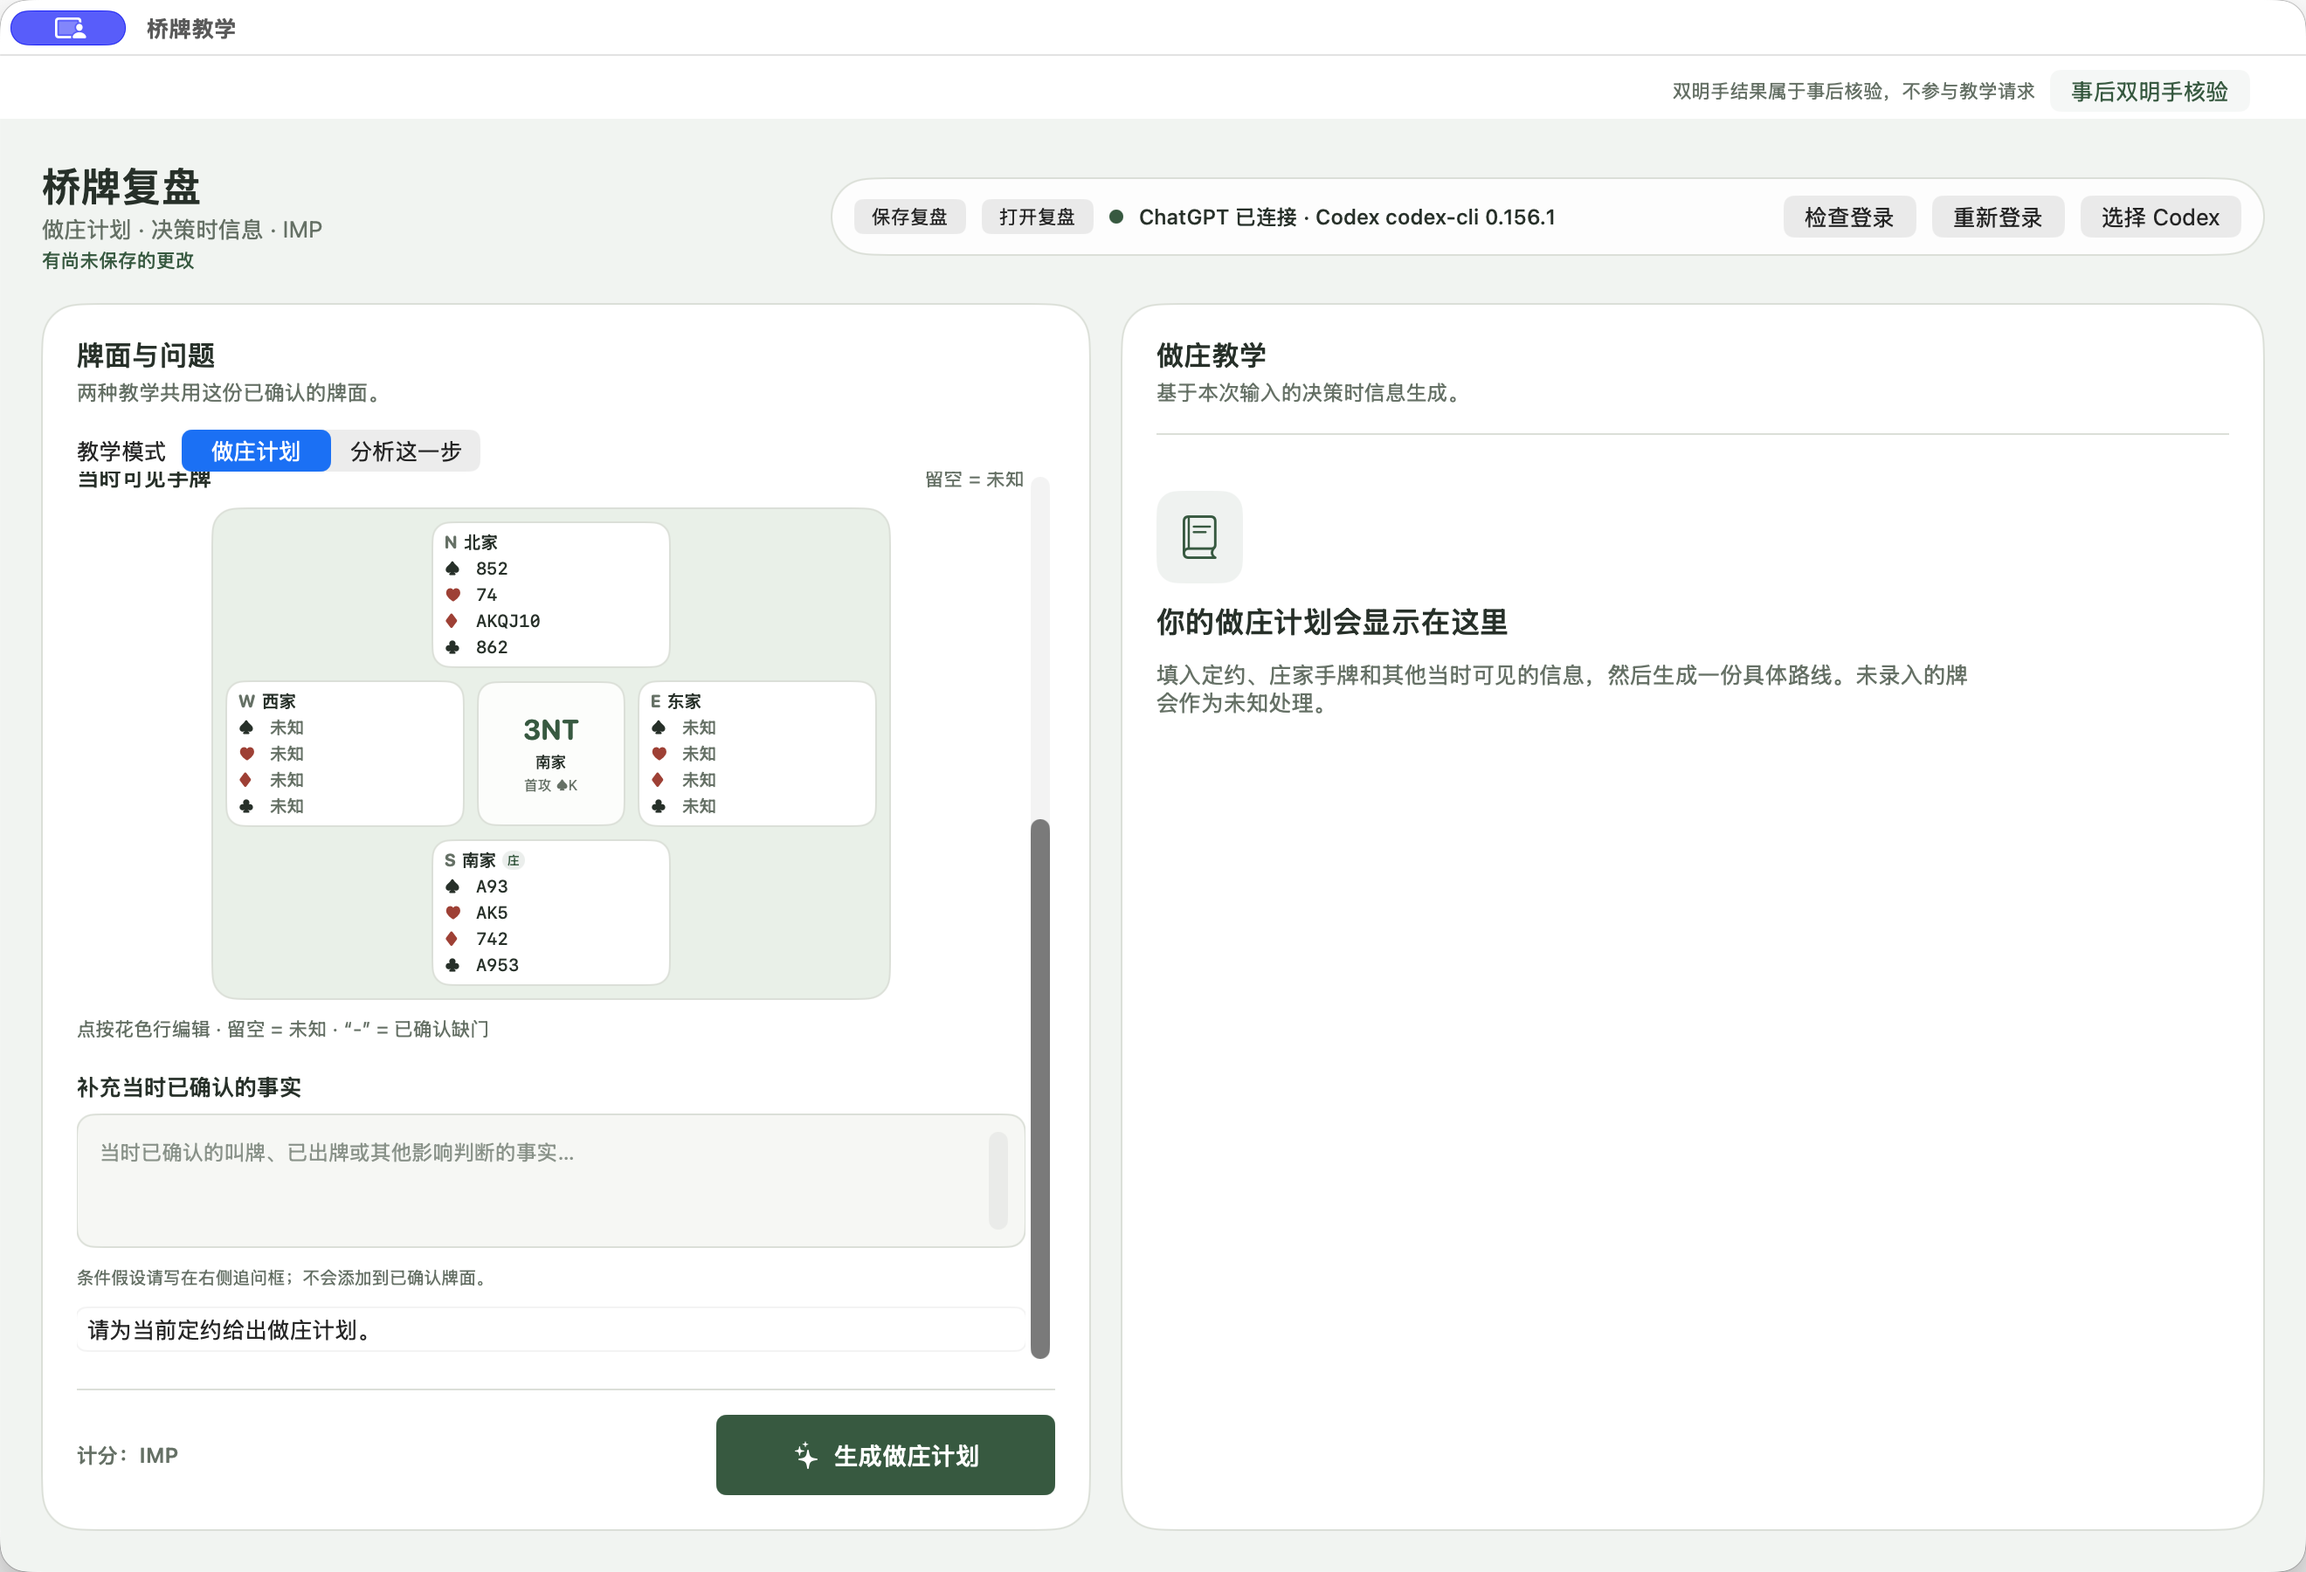
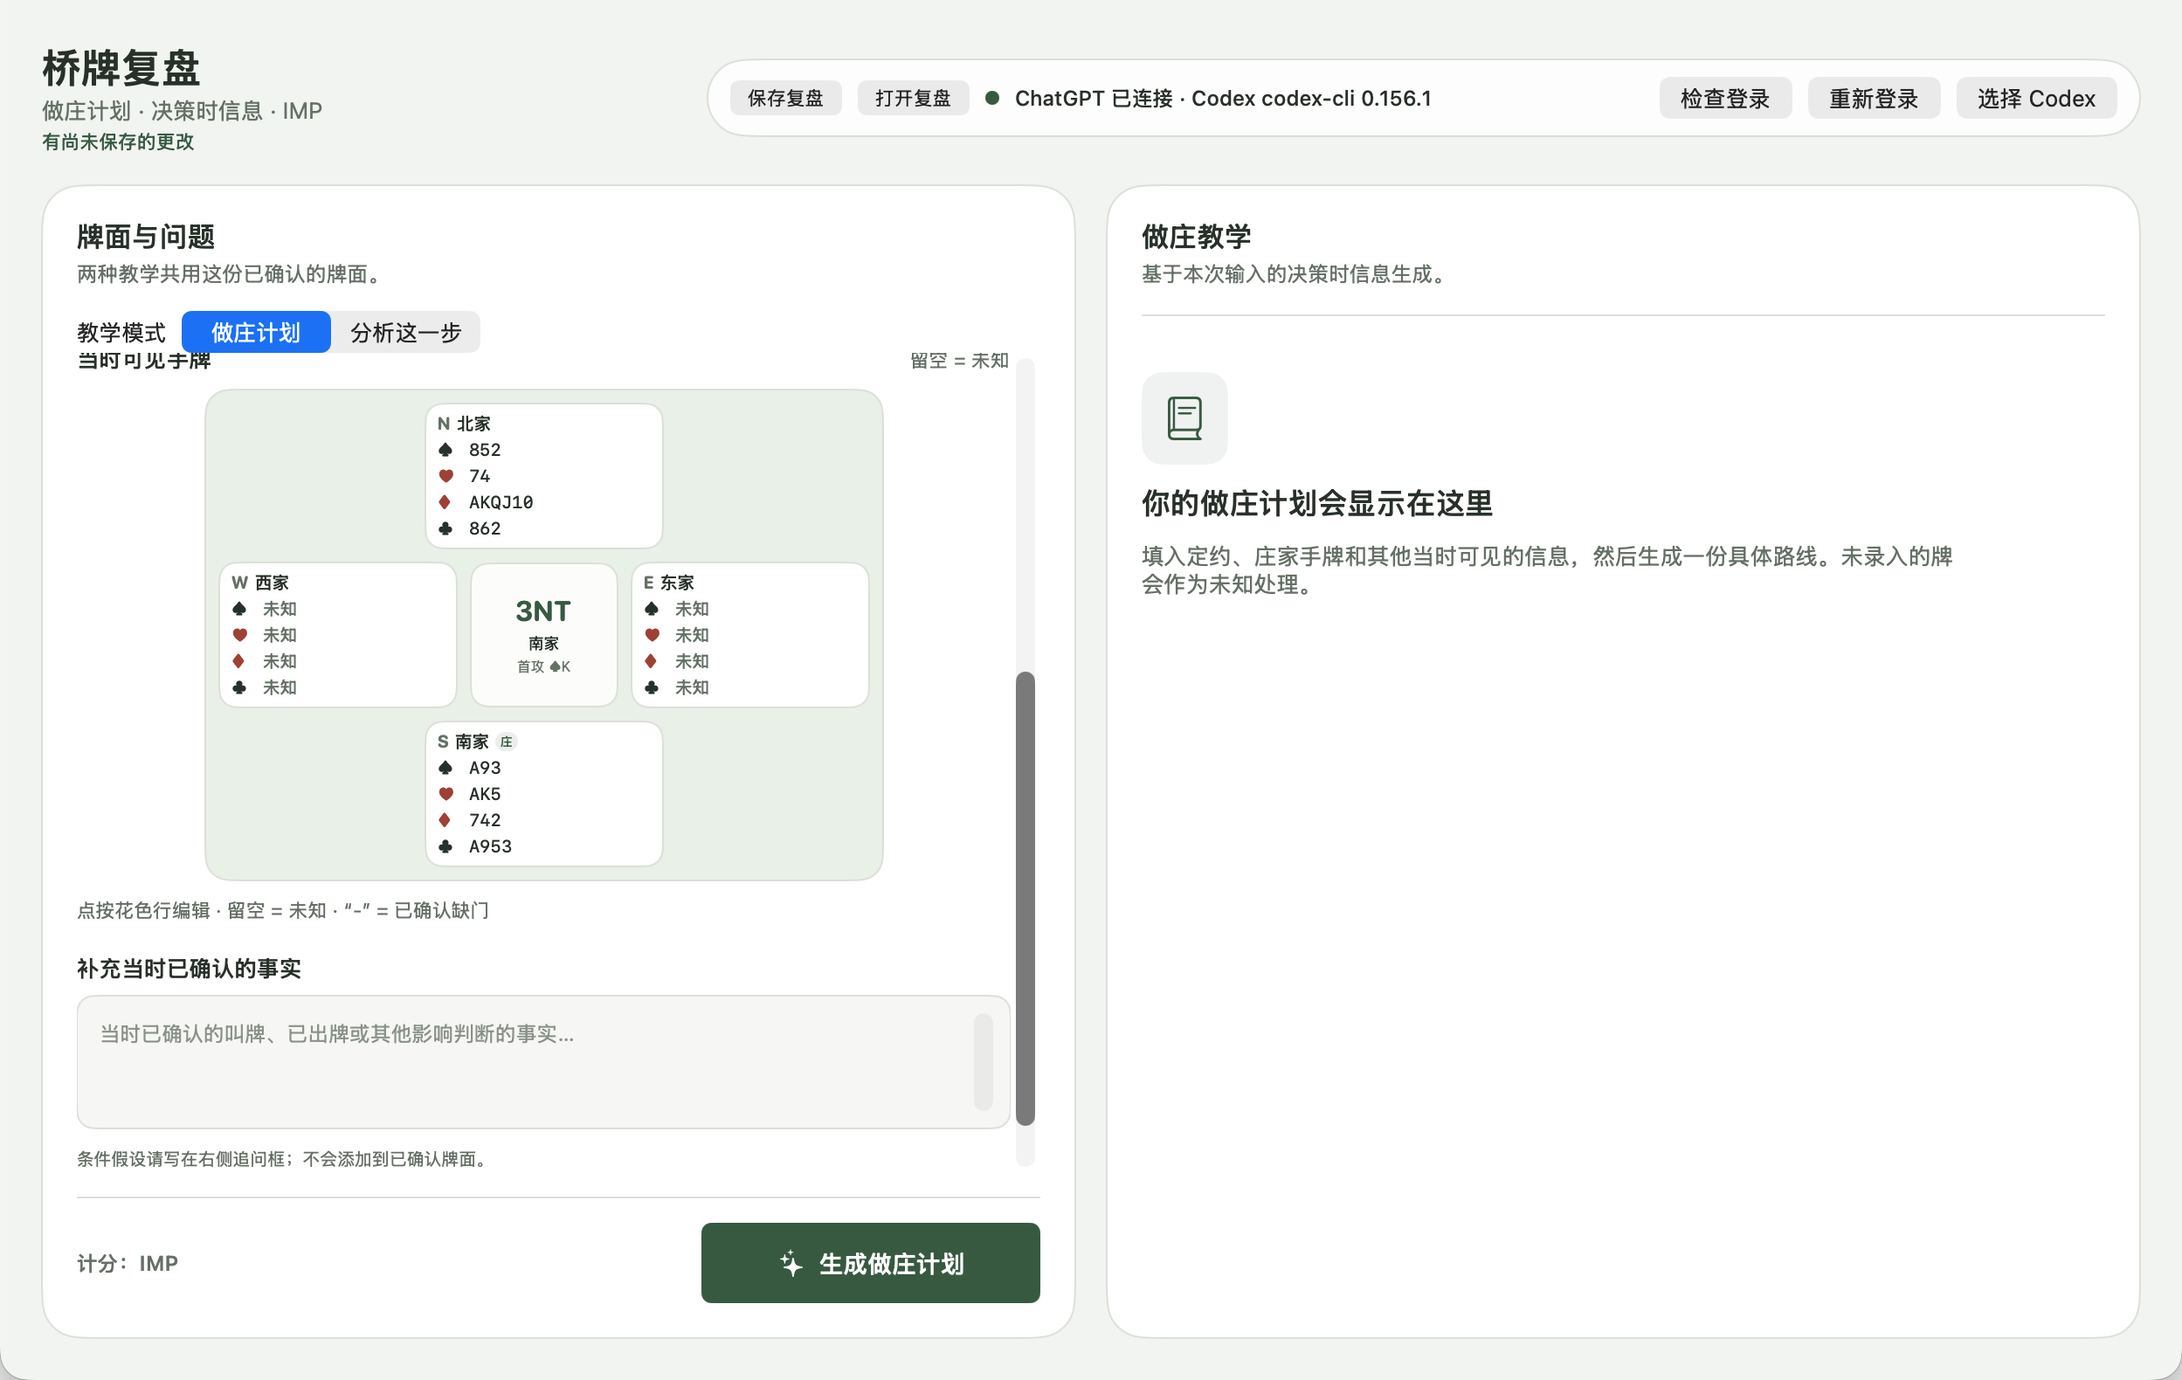
Refine compact table acceptance evidence

diff --git a/Sources/BridgeTeacherMac/BridgeTeacherMacApp.swift b/Sources/BridgeTeacherMac/BridgeTeacherMacApp.swift
@@ -594,17 +594,6 @@ private struct DeclarerEntryPanel: View {
         )
     }
 
-    private func holdingBinding(seat: Seat, suit: Suit) -> Binding<String> {
-        Binding(
-            get: { workflow.draft.hands[seat]?[suit] ?? "" },
-            set: { value in
-                var draft = workflow.draft
-                draft.hands[seat, default: [:]][suit] = value
-                model.updateReviewDraft(draft)
-            }
-        )
-    }
-
     private func commitHolding(seat: Seat, suit: Suit, value: String) -> String? {
         var draft = workflow.draft
         let normalized = value.trimmingCharacters(in: .whitespacesAndNewlines)

diff --git a/.scratch/bridge-coup-visual-repair/evidence/compact-table-acceptance.md b/.scratch/bridge-coup-visual-repair/evidence/compact-table-acceptance.md
@@ -6,8 +6,9 @@ Date: 2026-09-25
 
 - Built the real `.build/macos/BridgeTeacher.app` with `Scripts/build-macos-app.sh` after the SwiftUI change.
 - Opened the approved prototype worktree at `prototype/bridge-coup-next/` with variant A selected.
-- Captured the app and prototype directly from their visible windows, then cropped the prototype capture to the page viewport. `03-app-vs-prototype.png` places those source captures side by side at a matching content width.
-- The app window was about 1320×900 points; the prototype browser window was about 1246×846 points, with a 1246×692-point page viewport after browser chrome. Both show the same sample:
+- Captured both directly from their visible windows and cropped to the content areas, excluding window chrome. `03-app-vs-prototype.png` places the unscaled crops side by side.
+- The packaged app window was 1249×858 points, with a 1249×790-point content view. The prototype browser window was 1247×862 points, with a 1247×759-point page viewport. The widths differ by 2 points and the heights by 31 points (about 4%).
+- Both show the same sample:
   - 3NT, South declarer, ♠K opening lead.
   - North: ♠852 ♥74 ♦AKQJ10 ♣862.
   - South: ♠A93 ♥AK5 ♦742 ♣A953.
